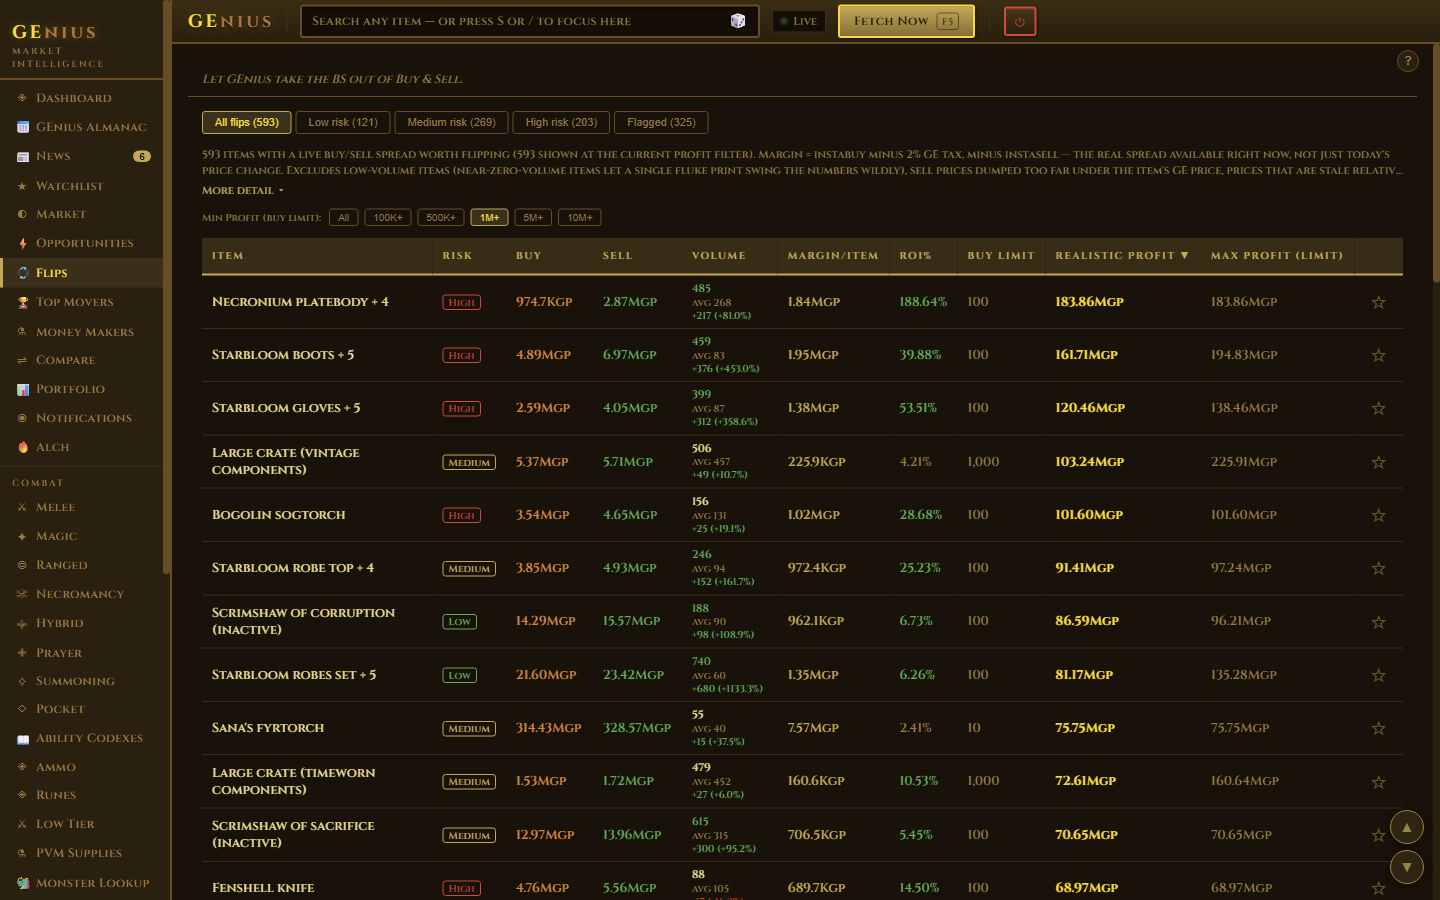
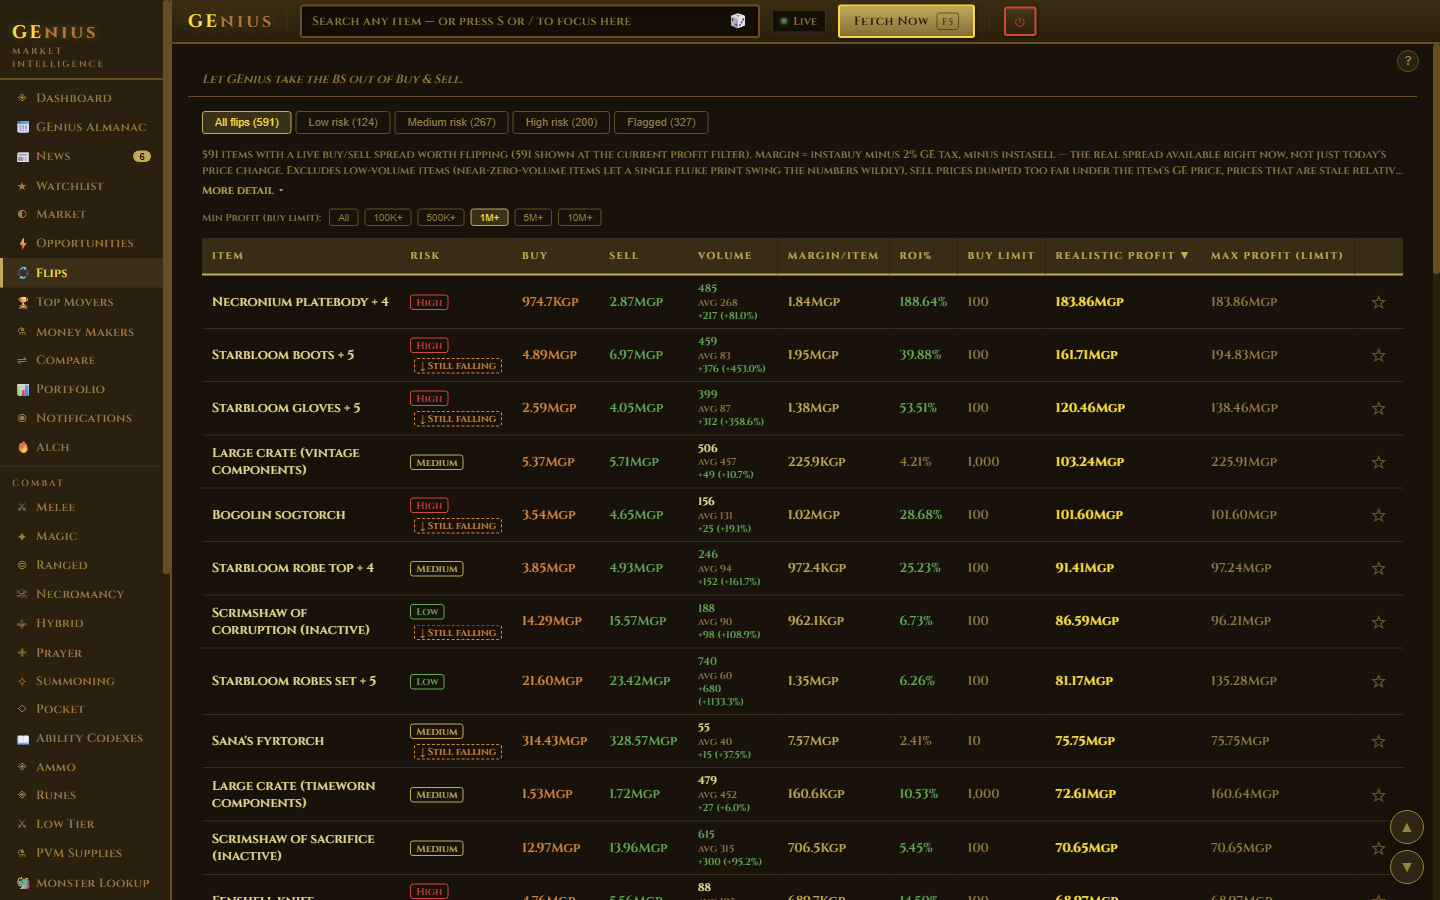
Flips: Still falling tag (new 6-month low in the last 14 days, from guide or live prices); batch live-archive check

diff --git a/src/renderer.js b/src/renderer.js
@@ -2932,8 +2932,19 @@ async function _riskOne(item) {
     const d = Math.floor(ts / 86400000), prev = byDay.get(d);
     if (!prev || ts > prev.ts) byDay.set(d, {ts, price: pt.price});
   }
-  const r = positionRisk(null, item, [...byDay.values()].sort((a, b) => a.ts - b.ts), yearAgo);
-  return r ? ['RISK_LOW', 'RISK_MEDIUM', 'RISK_HIGH'].indexOf(r.signal) : null;
+  const days = [...byDay.values()].sort((a, b) => a.ts - b.ts);
+  const r = positionRisk(null, item, days, yearAgo);
+  // "Still falling" (Ben, 2026-11-12): made a new 180-day low in the last 14
+  // days. The long-hold research found buying a drop only worked once it had
+  // STOPPED falling; Low risk alone doesn't say whether it still is.
+  let falling = false;
+  const recent = days.filter(x => x.ts >= Date.now() - 180 * 86400000);
+  if (recent.length >= 30) {
+    let low = Infinity, lowTs = 0;
+    for (const x of recent) if (x.price <= low) { low = x.price; lowTs = x.ts; }
+    falling = lowTs >= Date.now() - 14 * 86400000;
+  }
+  return { level: r ? ['RISK_LOW', 'RISK_MEDIUM', 'RISK_HIGH'].indexOf(r.signal) : null, falling };
 }
 function _riskPump() {
   while (_riskRunning < 4 && _riskQueue.length) {
@@ -2941,8 +2952,8 @@ function _riskPump() {
     const hit = _riskLevelCache.get(item.id);
     if (hit && Date.now() - hit.at < RISK_TTL) continue;
     _riskRunning++;
-    _riskOne(item).catch(() => null).then(level => {
-      _riskLevelCache.set(item.id, {at: Date.now(), level});
+    _riskOne(item).catch(() => null).then(res => {
+      _riskLevelCache.set(item.id, {at: Date.now(), level: res ? res.level : null, falling: !!(res && res.falling)});
       _riskRunning--;
       if (_riskLevelCache.size % 20 === 0 || !_riskQueue.length) _riskListeners.forEach(f => f());
       _riskPump();
@@ -2963,10 +2974,33 @@ function useRiskLevels(items) {
     _riskPump();
     return () => _riskListeners.delete(f);
   }, [items]);
-  const levels = new Map();
+  // Live-price "still falling" (Ben, 2026-11-12): the guide history is smoothed and
+  // lags, so an item sliding at live prices (Eternal magic shortbow Mk. 5 during
+  // the Nov DXP) read as not falling. Ask the live archive too, in one batch.
+  useEffect(() => {
+    const now = Date.now();
+    const need = items.map(it => it.id).filter(id => !((_liveFallingChecked.get(id) || 0) > now - 30 * 60000));
+    if (!need.length || !window.genius?.getLiveFalling) return;
+    need.forEach(id => _liveFallingChecked.set(id, now));
+    window.genius.getLiveFalling(need).then(list => {
+      const hit = new Set((list || []).map(String));
+      for (const id of need) { if (hit.has(String(id))) _liveFalling.add(id); else _liveFalling.delete(id); }
+      _riskListeners.forEach(f => f());
+    }).catch(() => need.forEach(id => _liveFallingChecked.delete(id)));
+  }, [items]);
+  const levels = new Map(), falling = new Set();
   let pending = 0;
-  for (const it of items) { const hit = _riskLevelCache.get(it.id); if (hit) levels.set(it.id, hit.level); else pending++; }
-  return {levels, pending};
+  for (const it of items) {
+    const hit = _riskLevelCache.get(it.id);
+    if (hit) { levels.set(it.id, hit.level); if (hit.falling) falling.add(it.id); } else pending++;
+    if (_liveFalling.has(it.id)) falling.add(it.id);
+  }
+  return {levels, falling, pending};
+}
+const _liveFalling = new Set(), _liveFallingChecked = new Map(); // id -> last checked
+function FallingTag() {
+  return h('span', {title:'Made a new 6-month low in the last 14 days, so it is still falling. GEnius research found that buying a drop only paid off once the price had stopped falling.',
+    style:{fontSize:10, color:'#e08030', border:'1px dashed #e08030', borderRadius:3, padding:'0 5px', whiteSpace:'nowrap', marginLeft:4}}, '↓ Still falling');
 }
 const RISK_NAMES = ['Low', 'Medium', 'High'];
 const RISK_COLORS = () => [T.green, T.gold, T.red];
@@ -3009,6 +3043,7 @@ function GoodRightNow({items, onSelect, onNavigate}) {
     },
       h('div', {style:{flex:'1 1 160px', color:T.textBright, overflow:'hidden', textOverflow:'ellipsis', whiteSpace:'nowrap'}}, it.name),
       risk.levels.has(it.id) && h(RiskTag, {level: risk.levels.get(it.id)}),
+      risk.falling.has(it.id) && h(FallingTag),
       h('div', {style:{color:T.textDim, whiteSpace:'nowrap'}}, 'buy ', h('span', {style:{color:'#e08030'}}, g(it.liveSell)), ' → sell ', h('span', {style:{color:T.green}}, g(it.liveBuy))),
       h('div', {style:{minWidth:150, textAlign:'right', whiteSpace:'nowrap'}},
         h('span', {style:{color:T.green, fontWeight:600}}, '+' + g(s.margin) + ' each'),
@@ -14134,7 +14169,8 @@ function FlipsTab({items, selected, onSelect, watchlist, onToggleWatch, onToggle
                 key:it.id, className:selected?.id===it.id?'selected':'', onClick:()=>onSelect&&onSelect(it),
               },
                 h('td', null, it.name),
-                h('td', null, it.riskLevel == null && risk.pending ? h('span', {style:{fontSize:10, color:T.textDim}}, '…') : h(RiskTag, {level: it.riskLevel})),
+                h('td', null, it.riskLevel == null && risk.pending ? h('span', {style:{fontSize:10, color:T.textDim}}, '…') : h(RiskTag, {level: it.riskLevel}),
+                  risk.falling.has(it.id) && h('div', {style:{marginTop:3}}, h(FallingTag))),
                 h('td', {style:{color:'#e08030'}}, fmt.gp(it.liveSell)+'gp'),
                 h('td', {style:{color:T.green}}, fmt.gp(it.liveBuy)+'gp'),
                 h('td', null, h(VolDisplay,{volume:it.volume, avgVolume:it.avgVolume})),
@@ -16517,6 +16553,7 @@ const PAGE_GUIDES = {
     'Items you can buy and resell for a profit right now: buy with an offer at the "Buy" price, sell at the "Sell" price. Profit is after the 2% GE tax.',
     'Sorted by realistic profit, which takes into account how much of the item actually trades in a day. Use the Min Profit buttons to hide small flips.',
     'The Low, Medium and High risk pills split the flips by how wild each item has been over the past year (same as the ITEM RISK badge). Low and Medium are the calmer picks.',
+    '"↓ Still falling" means the item made a new 6-month low in the last 2 weeks. Even a Low risk item can be sliding right now, so its margin may vanish before your offer fills.',
     'Prices move fast: click an item and check its "What to offer" box before you put in an offer. The Flagged pill lists items that only look profitable.',
   ]},
   opportunities: { title: 'Opportunities', points: [

diff --git a/src/backend-js/live-history.js b/src/backend-js/live-history.js
@@ -118,7 +118,33 @@ function createLiveHistory({ dataDir, platform = 'desktop' }) {
     return out;
   }
 
-  return { sync, getItem };
+  // "Still falling" at live prices, for many items in one pass (Ben, 2026-11-12):
+  // ids whose lowest daily average instant-sell over the last `days` days came
+  // within the last `recentDays`. Needs 30+ days of data for an item. Reads each
+  // month file once, however many ids.
+  async function getFalling(ids, days = 180, recentDays = 14) {
+    const want = new Set(ids.map(String));
+    const cutoff = dayStr(Date.now() - days * DAY_MS), recentCut = dayStr(Date.now() - recentDays * DAY_MS);
+    const months = (await storage.listJSONFiles(dir)).filter(f => /^\d{4}-\d{2}\.json$/.test(f)).map(f => f.slice(0, 7)).filter(m => m >= cutoff.slice(0, 7)).sort();
+    const low = {}; // id -> {price, date, n}
+    for (const m of months) {
+      const doc = await storage.readJSON(monthFile(m), { days: {} });
+      for (const date of Object.keys(doc.days).sort()) {
+        if (date < cutoff) continue;
+        const row = doc.days[date];
+        for (const id of want) {
+          const r = row[id];
+          if (!r || !(r[2] > 0)) continue;
+          const cur = low[id] || (low[id] = { price: Infinity, date: '', n: 0 });
+          cur.n++;
+          if (r[2] <= cur.price) { cur.price = r[2]; cur.date = date; }
+        }
+      }
+    }
+    return Object.keys(low).filter(id => low[id].n >= 30 && low[id].date >= recentCut);
+  }
+
+  return { sync, getItem, getFalling };
 }
 
 module.exports = { createLiveHistory };

diff --git a/src/main.js b/src/main.js
@@ -793,6 +793,7 @@ ipcMain.handle('get-item-daily-range', async (_, itemId, days) => liveHourly ? l
 ipcMain.handle('get-live-hourly-status', async () => liveHourly ? liveHourly.status() : null);
 ipcMain.handle('sync-live-hourly', async () => liveHourly && !isTestMode ? liveHourly.sync() : { saved: 0 });
 ipcMain.handle('get-item-live-history', async (_, itemId, days) => api.getItemLiveHistory(itemId, days));
+ipcMain.handle('get-live-falling', async (_, ids) => api.getLiveFalling(ids));
 ipcMain.handle('get-item-live-timeseries', async (_, itemId, lookback) => api.getItemLiveTimeseries(itemId, lookback));
 ipcMain.handle('get-launches', async () => api.getLaunches());
 ipcMain.handle('get-drop-sources', async (_, itemName) => api.getDropSources(itemName));

diff --git a/src/preload.js b/src/preload.js
@@ -33,6 +33,7 @@ contextBridge.exposeInMainWorld('genius', {
   syncGetConflicts: () => ipcRenderer.invoke('sync-get-conflicts'),
   syncClearConflicts: () => ipcRenderer.invoke('sync-clear-conflicts'),
   getItemLiveHistory: (id, days) => ipcRenderer.invoke('get-item-live-history', id, days),
+  getLiveFalling: (ids) => ipcRenderer.invoke('get-live-falling', ids),
   getItemLiveHourly: (id, days) => ipcRenderer.invoke('get-item-live-hourly', id, days),
   getItemDailyRange: (id, days) => ipcRenderer.invoke('get-item-daily-range', id, days),
   getLiveHourlyStatus: () => ipcRenderer.invoke('get-live-hourly-status'),

diff --git a/src/backend-js/api.js b/src/backend-js/api.js
@@ -5509,6 +5509,7 @@ async function createGeniusApi({ dataDir, store, platform = 'desktop', historyDi
     getUpdateRisks, dismissUpdateRisk, getUpdateRiskNotifications: toInbox('upcoming', 'update_risk', getUpdateRiskNotifications), getUpdateRiskSettings, setUpdateRiskSettings,
     syncLiveHistory: () => liveHistory.sync(),
     getItemLiveHistory: (id, days) => liveHistory.getItem(id, days),
+    getLiveFalling: (ids) => liveHistory.getFalling(Array.isArray(ids) ? ids.slice(0, 5000) : []),
     getLaunches,
     // monster lookup
     searchMonsters, getMonsterDrops, getMonsterInfo,

diff --git a/mobile/bridge-src/bridge.js b/mobile/bridge-src/bridge.js
@@ -383,6 +383,7 @@ async function buildGenius() {
     syncNow: (opts) => runSync(opts),
     syncUnpair: async () => (await ensureApi()).sync.unpairClient(),
     getItemLiveHistory:     (id, days) => a.getItemLiveHistory(id, days),
+    getLiveFalling:         (ids) => a.getLiveFalling(ids),
     // Hourly archive is desktop-only (live-hourly.js uses fs/zlib).
     getItemLiveHourly:      async () => [],
     getItemDailyRange:      async () => [],
